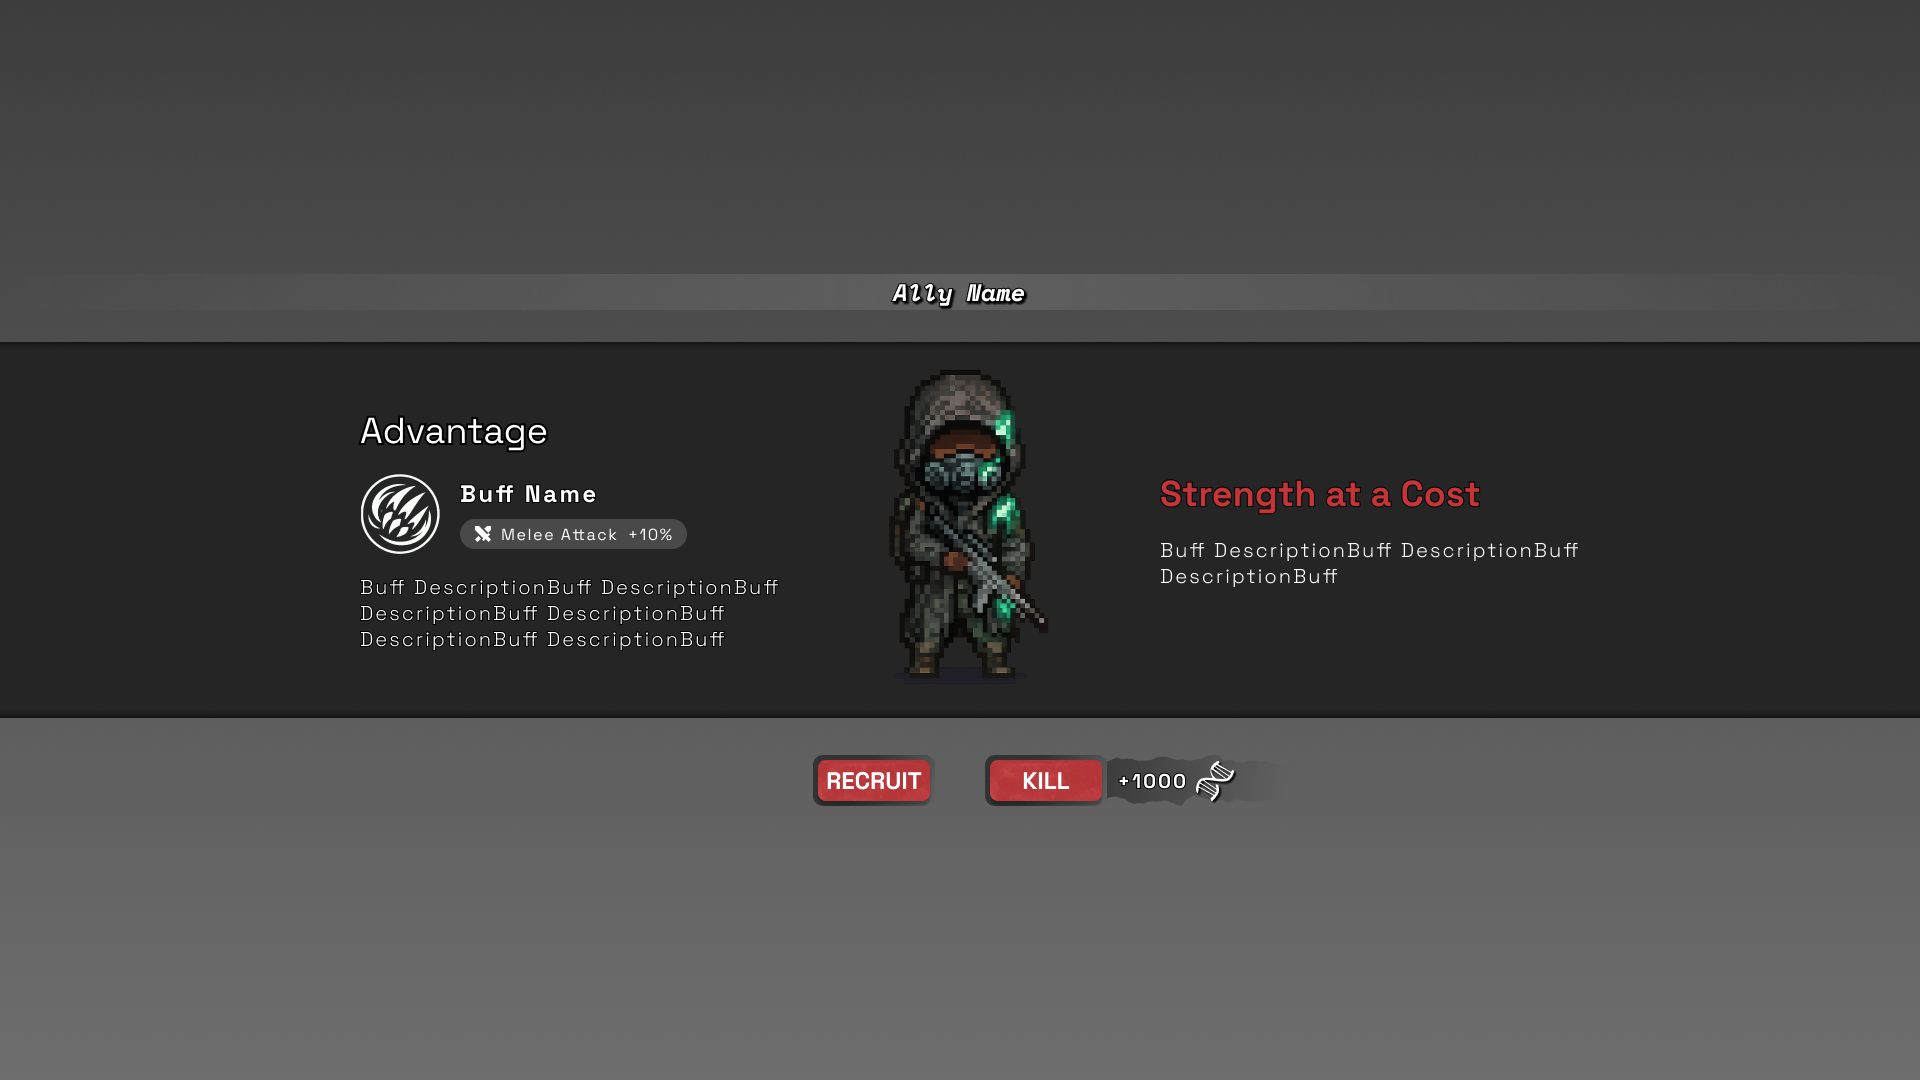
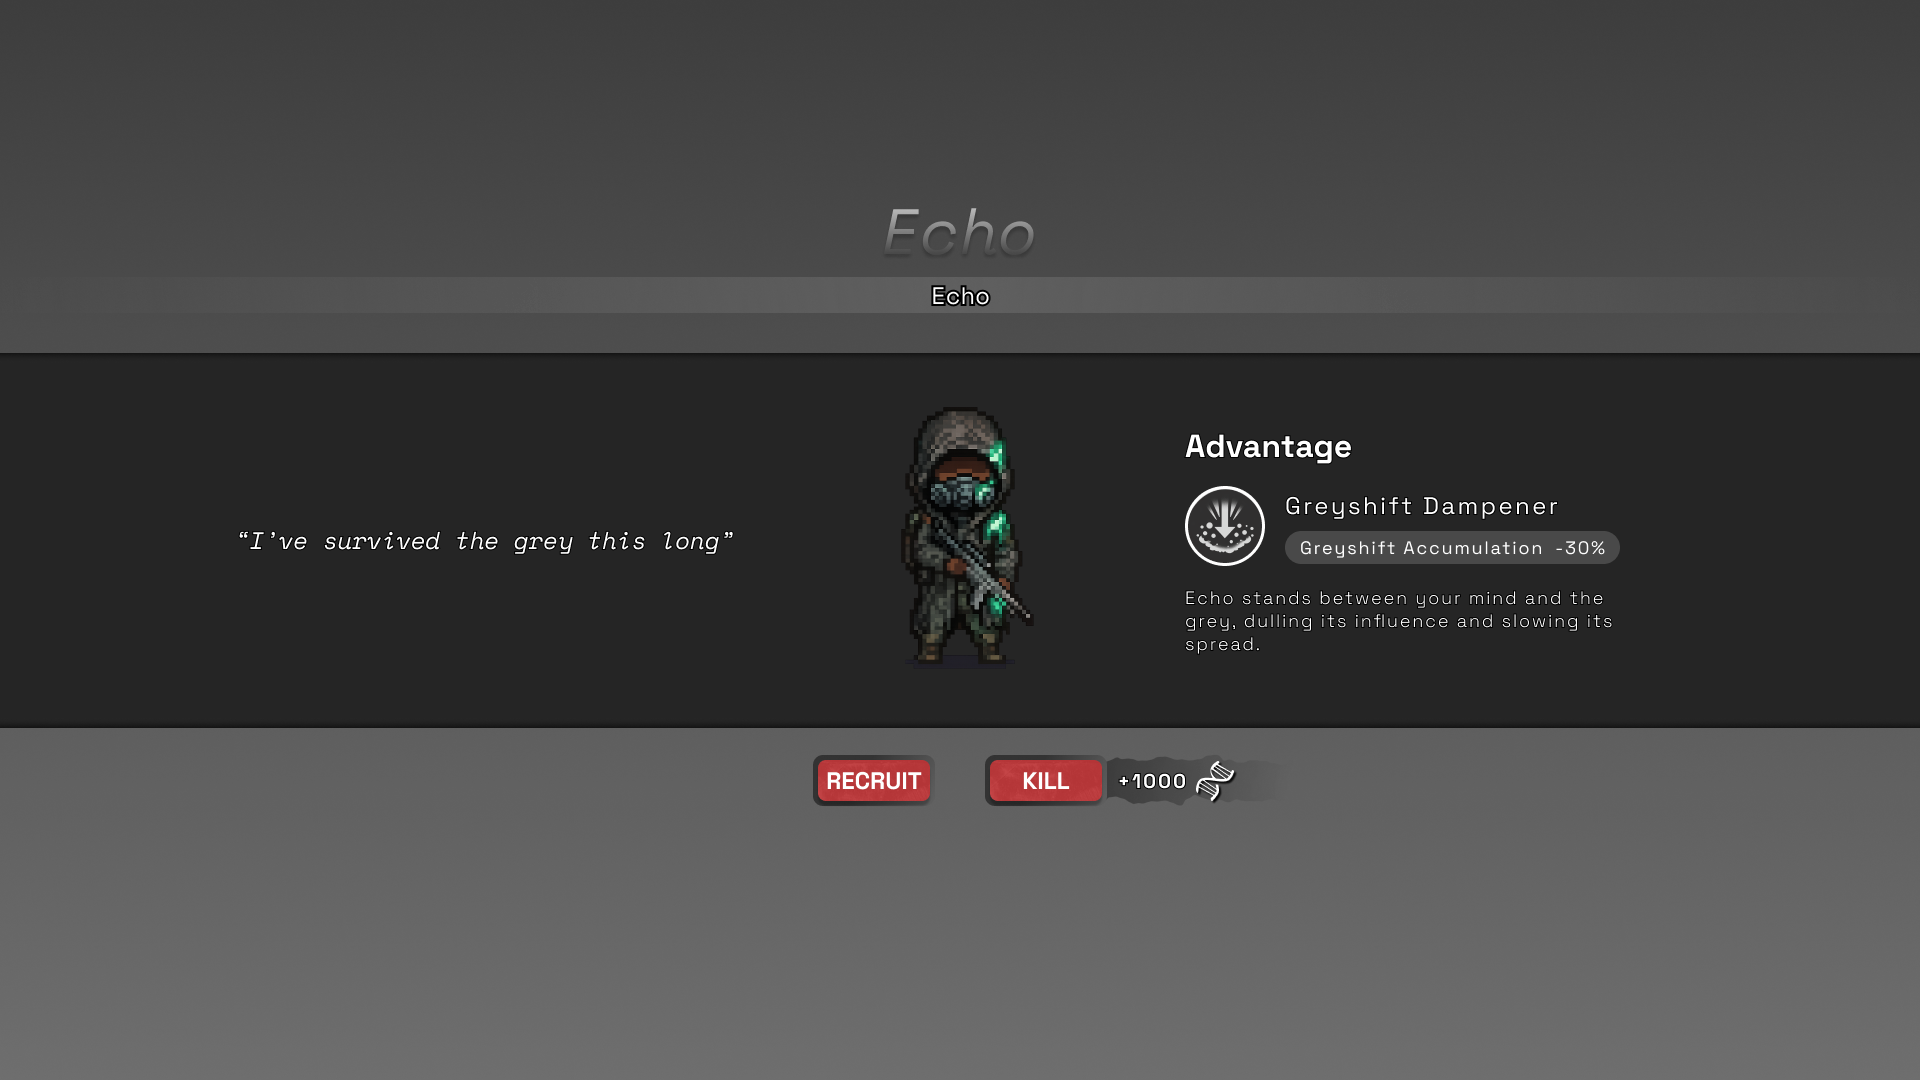
adding video of 410 & 499, change some img

diff --git a/witch's-winter.html b/witch's-winter.html
@@ -119,6 +119,15 @@
                         </span>
                     </p>
                 </div>
+
+                <h3>
+                    <span class="lang-en">Trailer</span>
+                    <span class="lang-zh">预告片</span>
+                </h3>
+
+                <iframe width="560" height="315" src="https://www.youtube.com/embed/WRrMV-IB6h8" title="YouTube video player" allow="accelerometer; autoplay; clipboard-write; encrypted-media; gyroscope; picture-in-picture; web-share" referrerpolicy="strict-origin-when-cross-origin" allowfullscreen></iframe>
+
+
             </section>
 
             <section class="projectMiddle">
@@ -358,13 +367,13 @@
                                     <figure class="wipCard">
                                         <img src="img/410/firespellPage.png" alt="Spells panel" width="1100" height="820">
                                         <figcaption>
-                                            <span class="lang-en">Spells Page</span>
-                                            <span class="lang-zh">法术页面</span>
+                                            <span class="lang-en">Spells Page - Fire</span>
+                                            <span class="lang-zh">法术页面 - 火焰</irespan>
                                         </figcaption>
                                     </figure>
 
                                     <figure class="wipCard">
-                                        <img src="img/410/blessPageDash.png" alt="Bless panel - Dash" width="1100" height="820">
+                                        <img src="img/410/dashPage.png" alt="Bless panel - Dash" width="1100" height="820">
                                         <figcaption>
                                             <span class="lang-en">Bless Page - Dash</span>
                                             <span class="lang-zh">祝福页面 - 冲刺</span>
@@ -372,7 +381,7 @@
                                     </figure>
 
                                     <figure class="wipCard">
-                                        <img src="img/410/blessPageDoubleJump.png" alt="Bless panel - Double Jump" width="1100" height="820">
+                                        <img src="img/410/double-jumpPage.png" alt="Bless panel - Double Jump" width="1100" height="820">
                                         <figcaption>
                                             <span class="lang-en">Bless Page - Double Jump</span>
                                             <span class="lang-zh">祝福页面 - 二段跳</span>
@@ -380,15 +389,15 @@
                                     </figure>
 
                                     <figure class="wipCard">
-                                        <img src="img/410/blessPageChest.png" alt="Bless panel - Chest" width="1100" height="820">
+                                        <img src="img/410/necklacePage.png" alt="Bless panel - Necklace" width="1100" height="820">
                                         <figcaption>
-                                            <span class="lang-en">Bless Page - Chest</span>
-                                            <span class="lang-zh">祝福页面 - 宝箱</span>
+                                            <span class="lang-en">Bless Page - Necklace</span>
+                                            <span class="lang-zh">祝福页面 - 项链</span>
                                         </figcaption>
                                     </figure>
 
                                     <figure class="wipCard">
-                                        <img src="img/410/blessPageRing.png" alt="Bless panel - Ring" width="1100" height="820">
+                                        <img src="img/410/ringPage.png" alt="Bless panel - Ring" width="1100" height="820">
                                         <figcaption>
                                             <span class="lang-en">Bless Page - Ring</span>
                                             <span class="lang-zh">祝福页面 - 戒指</span>
@@ -396,10 +405,10 @@
                                     </figure>
 
                                     <figure class="wipCard">
-                                        <img src="img/410/blessPageNecklace.png" alt="Bless panel - Necklace" width="1100" height="820">
+                                        <img src="img/410/crownPage.png" alt="Bless panel - Crown" width="1100" height="820">
                                         <figcaption>
-                                            <span class="lang-en">Bless Page - Necklace</span>
-                                            <span class="lang-zh">祝福页面 - 项链</span>
+                                            <span class="lang-en">Crown Page - Crown</span>
+                                            <span class="lang-zh">祝福页面 - 皇冠</span>
                                         </figcaption>
                                     </figure>
 

diff --git a/beneath-the-grey.html b/beneath-the-grey.html
@@ -131,6 +131,13 @@
                     </p>
                 </div>
 
+                <h3>
+                    <span class="lang-en">Trailer</span>
+                    <span class="lang-zh">预告片</span>
+                </h3>
+
+                <iframe width="560" height="315" src="https://www.youtube.com/embed/aWnspXbbvsw" title="YouTube video player" allow="accelerometer; autoplay; clipboard-write; encrypted-media; gyroscope; picture-in-picture; web-share" referrerpolicy="strict-origin-when-cross-origin" allowfullscreen></iframe>
+
             </section>
 
 
@@ -321,10 +328,10 @@
                                     </figcaption>
                                 </figure>
                                 <figure>
-                                    <img src="img/499/event.png" alt="Event panel" width="1920" height="1080">
+                                    <img src="img/499/allyAcquire.png" alt="Event panel" width="1920" height="1080">
                                     <figcaption>
-                                        <span class="lang-en">Event Panel</span>
-                                        <span class="lang-zh">事件面板</span>
+                                        <span class="lang-en">Recruit Panel</span>
+                                        <span class="lang-zh">招募面板</span>
                                     </figcaption>
                                 </figure>      
                                 <figure>
